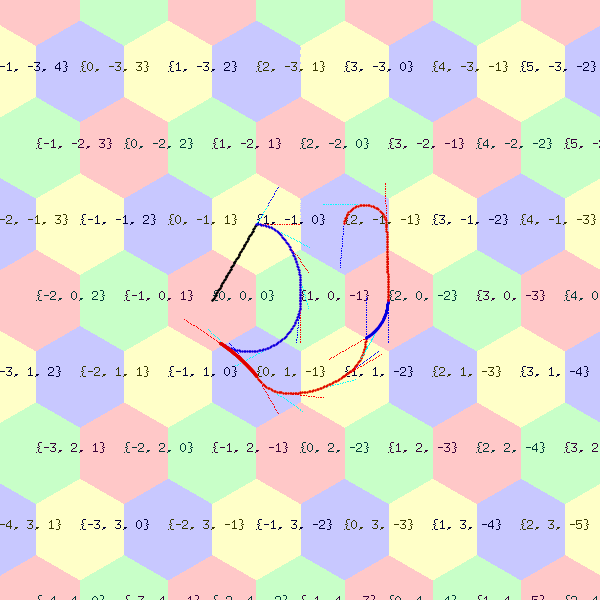
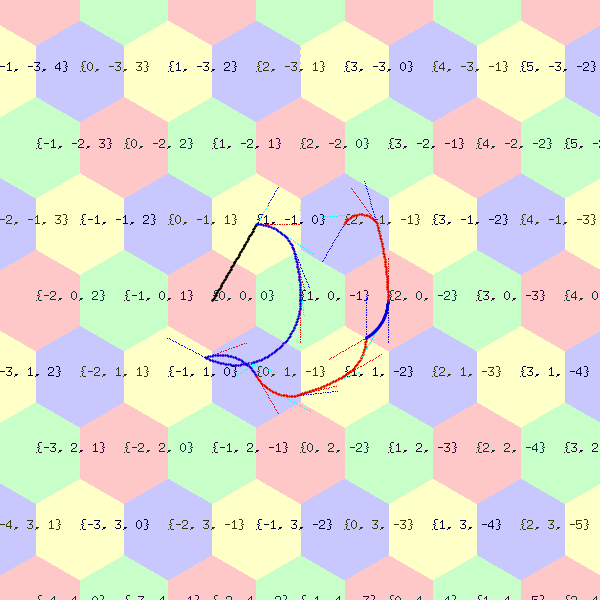
this is getting really dumb

diff --git a/curve/smoothPath.go b/curve/smoothPath.go
@@ -50,13 +50,13 @@ func SmoothPath(ti pos.HexFractional, te pos.HexFractional, path []pos.HexFracti
 	tangents := make([]pos.HexFractional, len(path), len(path))
 	tangents[0] = ti
 	tangents[len(path)-1] = te
-	for p := 1; p < len(path)-1; p++ {
+	for p := 1; p < len(tangents)-1; p++ {
 		tangents[p] = approximateTangent(path[p-1], path[p], path[p+1])
 	}
 
 	// Generate biarcs for each pair of points.
 	for i := 0; i < len(path)-1; i++ {
-		for _, b := range Biarc(path[i], tangents[i], path[i+1], tangents[i+1], 0.5) {
+		for _, b := range Biarc(path[i], tangents[i], path[i+1], tangents[i+1], 1.0) {
 			curves = append(curves, b)
 		}
 	}
@@ -141,6 +141,13 @@ func Biarc(pi, ti, pe, te pos.HexFractional, r float64) (arcs []CircularArc) {
 		}
 	}
 
+	if closeEnough(ti.DotProduct(te), 1.0) {
+		panic("unhandled special case #1")
+	}
+	if closeEnough(v.DotProduct(ti.Multiply(r).Add(te)), 0.0) {
+		panic("unhandled special case #2")
+	}
+
 	r1, r2 := findRoots(complex(a, 0.0), complex(b, 0.0), complex(c, 0.0))
 
 	// Pick a positive root for β
@@ -154,18 +161,18 @@ func Biarc(pi, ti, pe, te pos.HexFractional, r float64) (arcs []CircularArc) {
 	// wte is p4w
 	wte := pe.Subtract(te.Multiply(beta))
 
-	fmt.Printf("wti=%s, wte=%s\r\n", wti.ToString(), wte.ToString())
+	//fmt.Printf("wti=%s, wte=%s\r\n", wti.ToString(), wte.ToString())
 
 	// j is the joint point between the two arcs.
-	j := wti.Multiply(beta / (alpha + beta)).Add(wte.Multiply(alpha / (alpha + beta)))
-	// todo: wte and wti are swapped
-	//j := pos.LerpHexFractional(wte, wti, beta/(alpha+beta))
+	//j := wti.Multiply(beta / (alpha + beta)).Add(wte.Multiply(alpha / (alpha + beta)))
+
+	j := pos.LerpHexFractional(wte, wti, beta/(alpha+beta))
 	// tj is the tangent at point j
 	//tj := wte.Subtract(wti).Normalize()
-	_, tj, _ := CircularArc{pi, ti, j}.Curve().Sample(1.0)
-	//if !c1t.AlmostEquals(tj) {
-	//	panic("not G0 connected")
-	//}
+	//_, tj, _ := CircularArc{pi, ti, j}.Curve().Sample(1.0)
+	// Dumb way #3...
+	_, tjp, _ := CircularArc{pe, te.Multiply(-1.0), j}.Curve().Sample(1.0)
+	tj := tjp.Multiply(-1.0)
 
 	return []CircularArc{
 		CircularArc{pi, ti, j},

diff --git a/curve/curve_test.go b/curve/curve_test.go
@@ -137,7 +137,8 @@ func TestBiarcSemiCircle(t *testing.T) {
 		pos.HexFractional{Q: 0, R: 0},
 		up,
 		pos.HexFractional{Q: 1, R: 0},
-		up)
+		up,
+		1.0)
 
 	a1 := biarc[0]
 	a2 := biarc[1]
